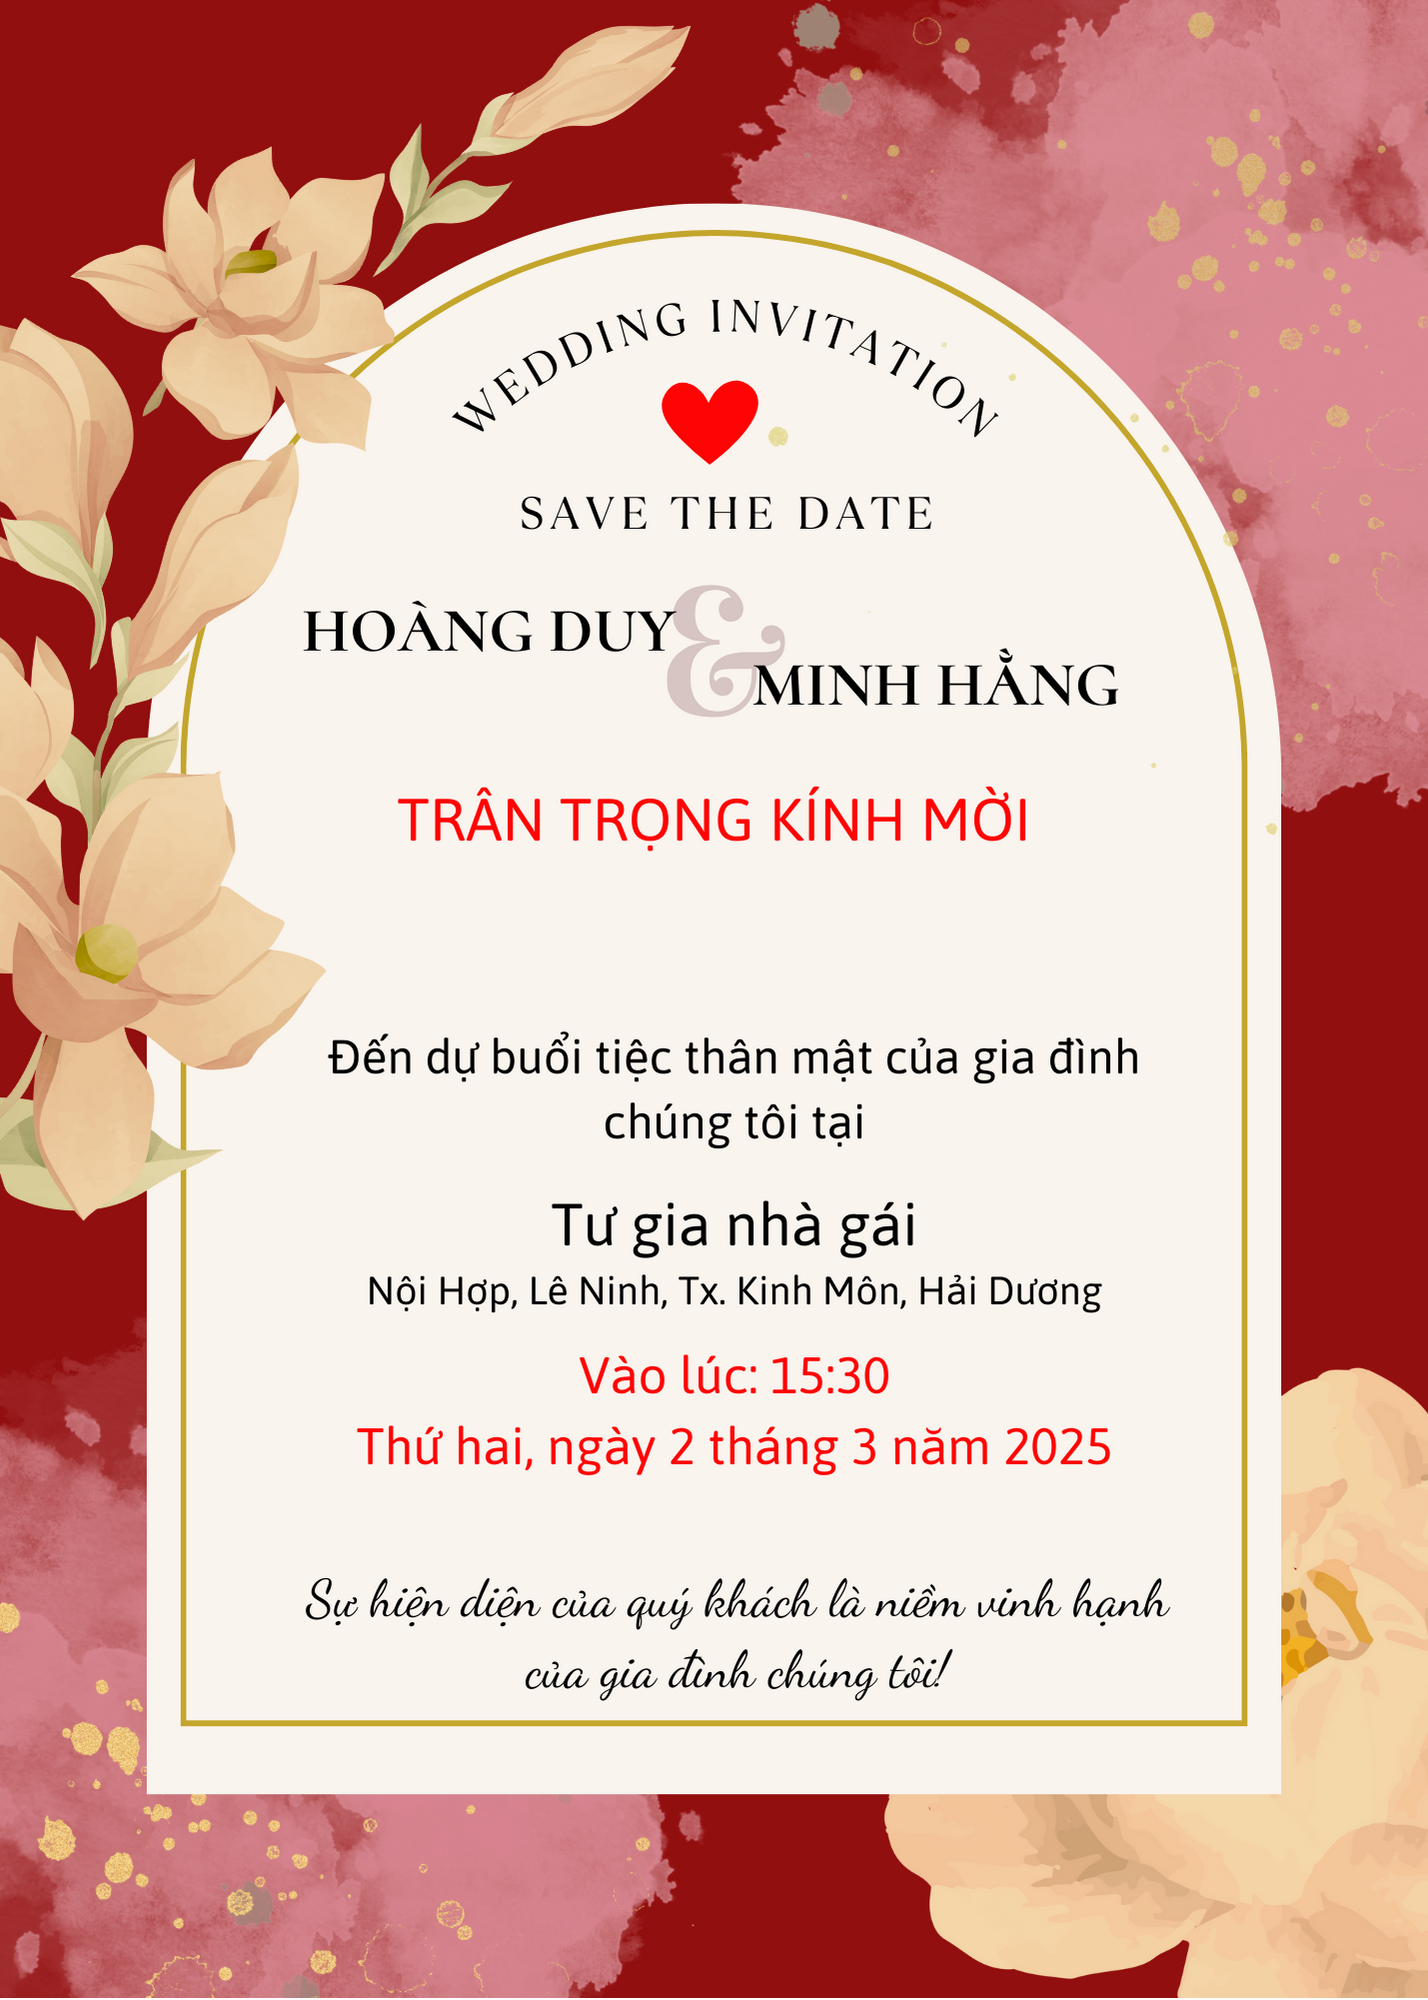
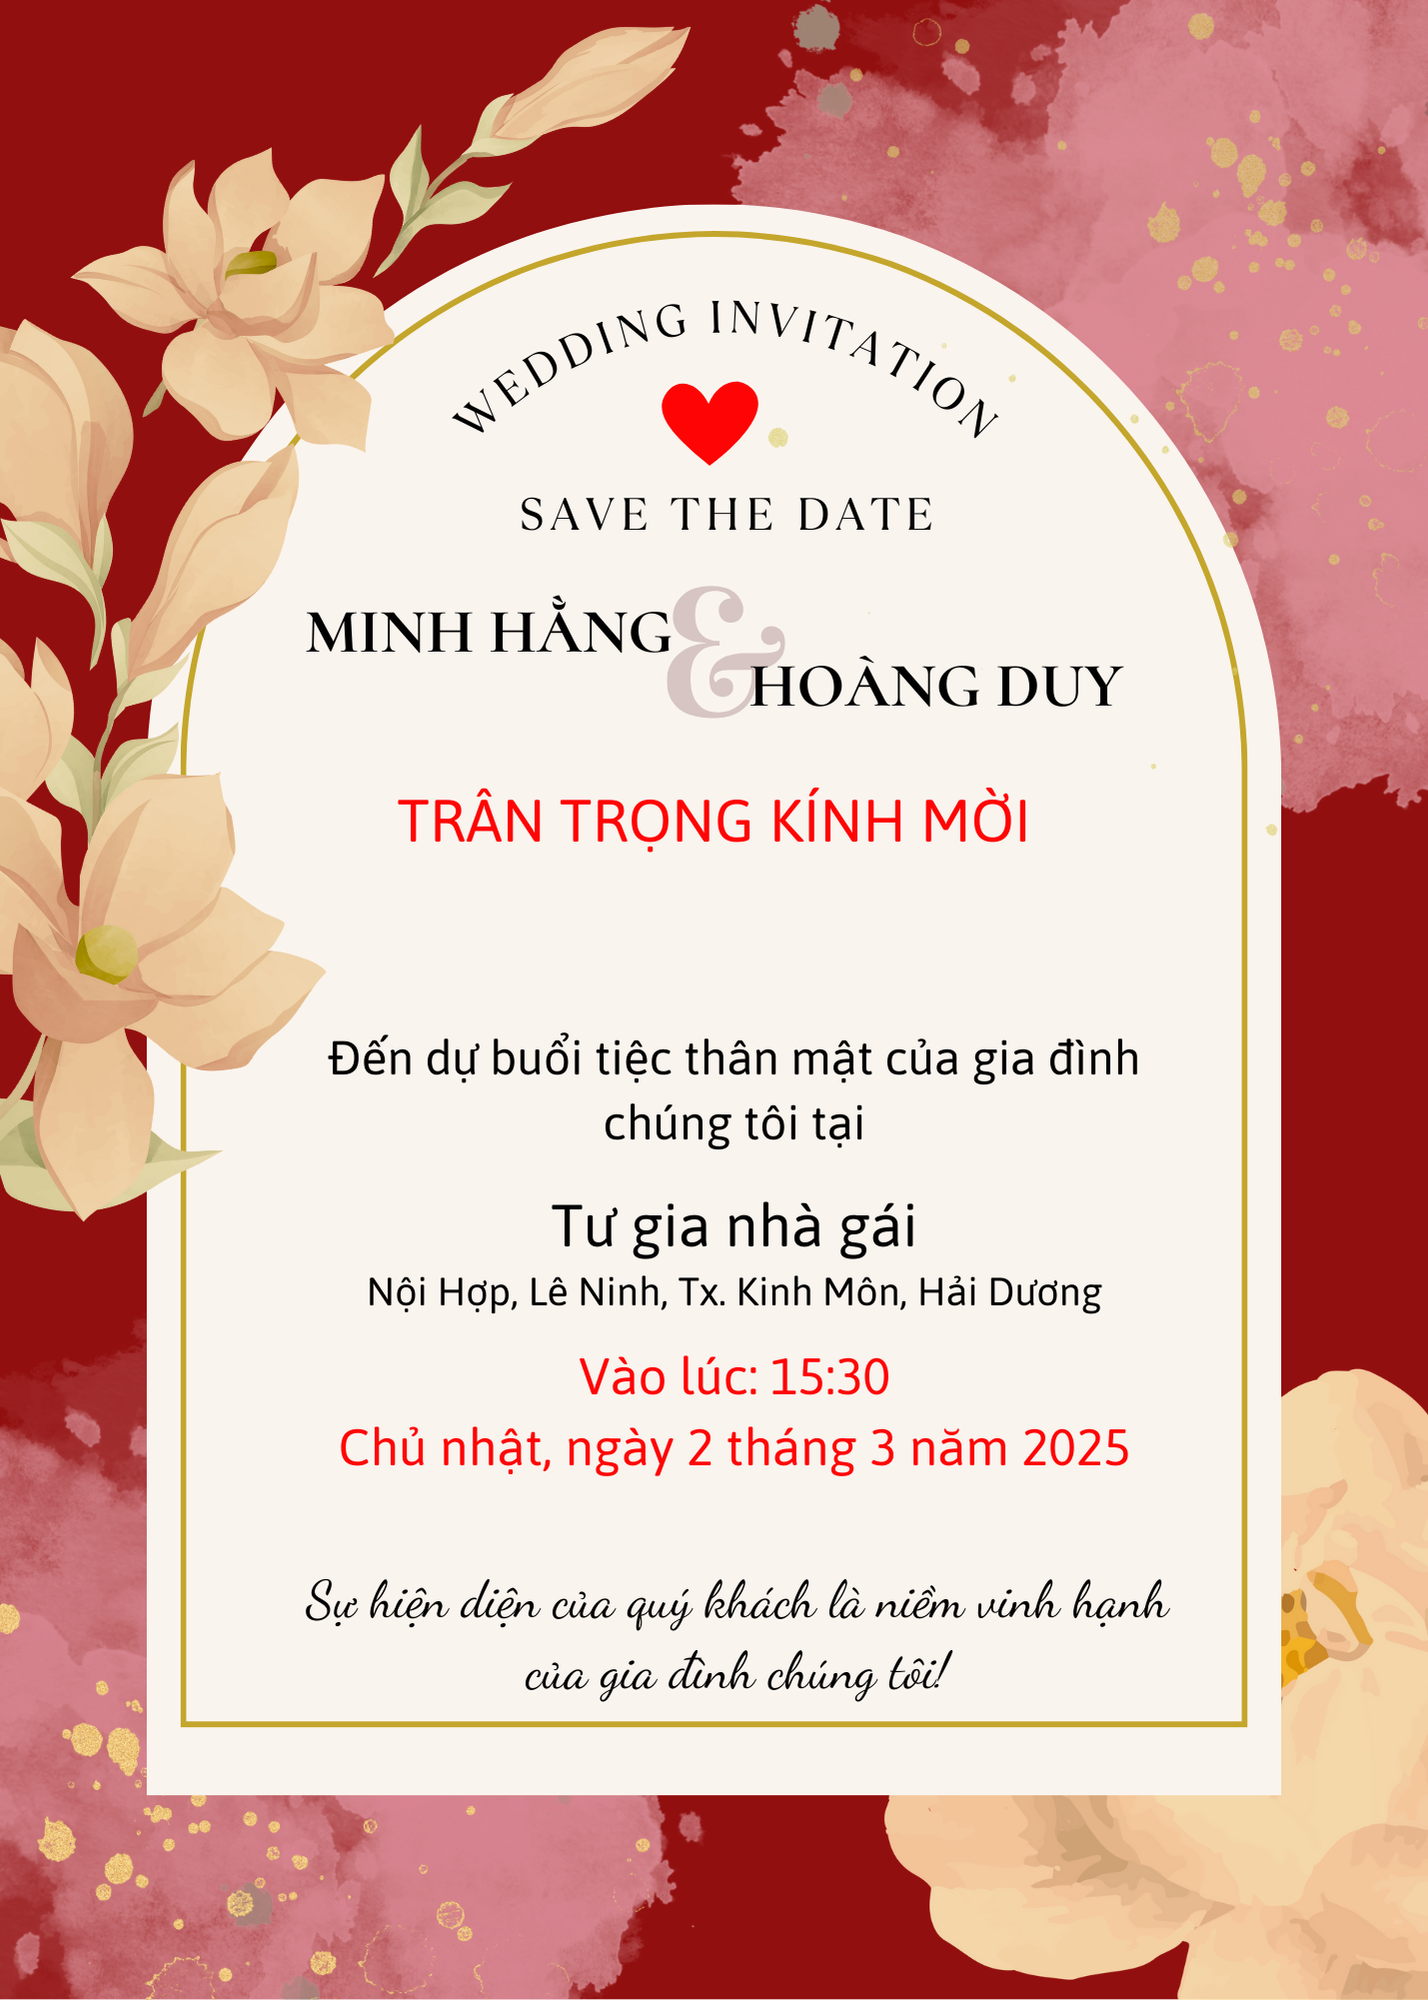
test

diff --git a/home.html b/home.html
@@ -568,6 +568,15 @@
 
 
         @media (max-width: 768px) {
+            .timeline-content h4{
+                font-size: 20px;
+            }
+            .timeline-content p{
+                font-size: 13px;
+            }
+            #gift-message{
+                margin-top: 50px;
+            }
             .info {
                 flex-direction: column;
                 /* Sắp xếp khối theo chiều dọc */
@@ -751,6 +760,9 @@
             height: 305px;
             overflow: auto;
         }
+        .event-card{
+            font-family:"SVN-Nusrat" ;
+        }
     </style>
     <link rel="stylesheet" href="https://unpkg.com/swiper/swiper-bundle.min.css">
 </head>
@@ -778,7 +790,7 @@
             <div class="tilte-nam  text-stroke-white">
                 <h5 class="title"><span>Chú rể</span></h5>
                 <h3 class="name"><span>Hoàng Duy</span></h3>
-                <span class="des-nam">Hôn nhân không phải là sự ràng buộc, mà là sự đồng hành. Không phải là chịu đựng,
+                <span class="des-nam">Đối với mình nhân không phải là sự ràng buộc, mà là sự đồng hành. Không phải là chịu đựng,
                     mà là thấu hiểu. Không phải là từ bỏ bản thân, mà là cùng nhau tốt lên.&nbsp;</span>
                 <div class="is-divider divider clearfix"
                     style="max-width:30000000000000px;height:1px;background-color:rgb(255, 255, 255);"></div>
@@ -809,22 +821,23 @@
     <div class="timeline-back">
         <section id="timeline" class="container">
             <h1 class="text-center section-title" style="color:#dee2e6; font-size:40px">Chuyện Tình Yêu</h1>
+            <h5 class="text-center" style="color: #dee2e6;">Tình yêu không làm cho thế giới quay tròn, nhưng tình yêu làm cho hành trình ấy trở nên đáng giá. Hôm nay, chúng mình muốn chia sẻ niềm hạnh phúc này với những người thân yêu nhất – những người đã luôn ủng hộ và yêu thương chúng mình trên chặng đường vừa qua.</h5>
             <div class="timeline">
                 <div class="row" style="margin-bottom: 40px;">
                     <div class="col-6  image-container" data-aos="flip-right">
                         <img src="./img/anhdoc.jpg" class="rounded-image" />
                     </div>
                     <div class="col-6  timeline-content timeline-left-content" data-aos="flip-left">
-                        <h4>First Meeting</h4>
-                        <p>We met for the first time and sparks flew!</p>
+                        <h4 style="font-family: 'SVN-Nusrat';">10-07-2020</h4>
+                        <p>Chúng mình gặp nhau vào một ngày bình thường, nhưng từ giây phút ấy, mọi thứ trở nên đặc biệt. Từ những tin nhắn đơn giản, những lần trò chuyện không dứt, cho đến những khoảnh khắc hiểu nhau chỉ qua ánh mắt… tình yêu lớn dần lúc nào không hay.</p>
                     </div>
 
                 </div>
                 <div class="row" style="margin-bottom: 40px;">
 
                     <div class="col-6 timeline-content timeline-right-content" data-aos="flip-right">
-                        <h4>First Meeting</h4>
-                        <p>We met for the first time and sparks flew!</p>
+                        <h4 style="font-family: 'SVN-Nusrat';">19-10-2020</h4>
+                        <p>Không có nến, không có hoa, không có một màn tỏ tình hoành tráng. Chỉ là một ngày bình thường như bao ngày khác, người ấy nhìn mình thật lâu và nói: 'Chúng ta hãy cùng nhau đi xa hơn nhé!' Và thế là, hai trái tim cùng nhịp đập, cùng nhau bước trên con đường yêu thương.</p>
                     </div>
                     <div class="col-6  image-container " data-aos="flip-left">
                         <img src="./img/anhthiep2.jpg" class="rounded-image" />
@@ -836,16 +849,16 @@
                         <img src="./img/anhthiep3.jpg" class="rounded-image" />
                     </div>
                     <div class="col-6 timeline-content timeline-left-content" data-aos="flip-left">
-                        <h4>First Meeting</h4>
-                        <p>We met for the first time and sparks flew!</p>
+                        <h4 style="font-family: 'SVN-Nusrat';">20-10-2024</h4>
+                        <p>Chúng mình đã đi cùng nhau qua biết bao chặng đường, và đến một ngày, anh nhẹ nhàng đưa ra chiếc nhẫn và nói: ‘Anh không hứa sẽ cho em một cuộc sống hoàn hảo, nhưng anh hứa sẽ luôn bên em, cùng em vượt qua tất cả. Em có đồng ý làm vợ anh nhé?’ Và khoảnh khắc ấy, mình biết rằng mình đã tìm thấy bến đỗ của đời mình.</p>
                     </div>
 
                 </div>
                 <div class="row" style="margin-bottom: 40px;">
 
                     <div class="col-6 timeline-content timeline-right-content" data-aos="flip-right">
-                        <h4>First Meeting</h4>
-                        <p>We met for the first time and sparks flew!</p>
+                        <h4 style="font-family: 'SVN-Nusrat';">07-02-2025</h4>
+                        <p>"Bao giờ sính lễ anh trao, trâu cau đem tới, em theo anh về "</p>
                     </div>
                     <div class="col-6  image-container" data-aos="flip-left">
                         <img src="./img/anhthiep4.jpg" class="rounded-image" />
@@ -861,23 +874,23 @@
         <p class="text-center mb-4">Vui lòng chọn sự kiện để xem lịch trình chi tiết hôn lễ.</p>
         <ul class="nav nav-tabs justify-content-center mb-4" id="eventTabs" role="tablist">
             <li class="nav-item" role="presentation">
-                <button class="nav-link active" id="nhatrai-tab" data-bs-toggle="tab" data-bs-target="#nhatrai"
+                <button class="nav-link " id="nhatrai-tab" data-bs-toggle="tab" data-bs-target="#nhatrai"
                     type="button" role="tab" aria-controls="nhatrai" aria-selected="true">Nhà Trai</button>
             </li>
             <li class="nav-item" role="presentation">
-                <button class="nav-link" id="nhagai-tab" data-bs-toggle="tab" data-bs-target="#nhagai" type="button"
+                <button class="nav-link active" id="nhagai-tab" data-bs-toggle="tab" data-bs-target="#nhagai" type="button"
                     role="tab" aria-controls="nhagai" aria-selected="false">Nhà Gái</button>
             </li>
         </ul>
 
         <div class="tab-content" id="eventTabsContent">
             <!-- Nhà Trai Tab -->
-            <div class="tab-pane fade show active" id="nhatrai" role="tabpanel" aria-labelledby="nhatrai-tab">
+            <div class="tab-pane fade " id="nhatrai" role="tabpanel" aria-labelledby="nhatrai-tab">
                 <div class="row justify-content-center">
                     <div class="col-md-5">
                         <div class="event-card">
                             <img src="./img/anhnen.jpg" alt="Nhà Trai">
-                            <h3>Tiệc Thân Mật Nhà Trai</h3>
+                            <h3>Tiệc Thân Mật</h3>
                             <p>Tại Tư Gia Nhà Trai<br>Bàng La, Đồ Sơn, Hải Phòng</p>
                             <p class="date">Chủ Nhật, 02 Tháng 03 Năm 2025<br>Vào Lúc 17:00</p>
                             <p>Nhằm Ngày 03 Tháng 02 Năm Ất Tỵ</p>
@@ -924,15 +937,15 @@
             </div>
 
             <!-- Nhà Gái Tab -->
-            <div class="tab-pane fade" id="nhagai" role="tabpanel" aria-labelledby="nhagai-tab">
+            <div class="tab-pane fade show active" id="nhagai" role="tabpanel" aria-labelledby="nhagai-tab">
                 <div class="row justify-content-center">
                     <div class="col-md-5">
                         <div class="event-card">
                             <img src="./img/anhnen.jpg" alt="Nhà Trai">
-                            <h3>Tiệc Thân Mật Nhà Gái</h3>
-                            <p>Tại Tư Gia Nhà Trai<br>Hoàn Kiếm, Hà Nội</p>
-                            <p class="date">Chủ Nhật, 08/09 Năm 2024<br>Vào Lúc 10:00</p>
-                            <p>Nhằm Ngày 19 Tháng 08 Năm Giáp Thìn</p>
+                            <h3>Tiệc Thân Mật</h3>
+                            <p>Tại Tư Gia Nhà Gái<br>Nội Hợp, Lê Ninh, Kinh Môn, Hải Dương</p>
+                            <p class="date">Chủ Nhật, 02/03 Năm 2025<br>Vào Lúc 15:30</p>
+                            <p>Nhằm Ngày 03 Tháng 02 Năm Ất Tỵ</p>
                             <div class="icons">
                                 <i class="bi bi-telephone-fill"></i>
                                 <i class="bi bi-chat-dots-fill"></i>
@@ -941,9 +954,7 @@
                                     <i class="bi bi-geo-alt-fill"></i>
                                 </a>
                                 <div>
-                                    <iframe class="map"
-                                        src="https://www.google.com/maps/embed?pb=!1m18!1m12!1m3!1d3153.8354345097515!2d144.95565101568054!3d-37.81731417975157!2m3!1f0!2f0!3f0!3m2!1i1024!2i768!4f13.1!3m3!1m2!1s0x6ad642af0f11fd81%3A0x5045675218ce7e33!2sGroom%27s%20House!5e0!3m2!1sen!2s!4v1600871758580!5m2!1sen!2s"
-                                        allowfullscreen="" loading="lazy"></iframe>
+                                    <iframe src="https://www.google.com/maps/embed?pb=!1m18!1m12!1m3!1d884.8648576924388!2d106.43050377109718!3d21.04447595999833!2m3!1f0!2f0!3f0!3m2!1i1024!2i768!4f13.1!3m3!1m2!1s0x313578a82d4140dd%3A0xb5912800bd7eadee!2zTuG7mWkgSOG7o3AsIEzhu4UgTmluaCwgS2luaCBNw7RuLCBI4bqjaSBExrDGoW5nLCBWaeG7h3QgTmFt!5e1!3m2!1svi!2s!4v1739456736010!5m2!1svi!2s"  allowfullscreen="" loading="lazy" referrerpolicy="no-referrer-when-downgrade"></iframe>
                                 </div>
                             </div>
                         </div>
@@ -952,9 +963,9 @@
                         <div class="event-card">
                             <img src="./img/anhnen.jpg" alt="Nhà Gái">
                             <h3>Tiệc Vu Quy</h3>
-                            <p>Tại White Palace<br>Ba Đình, Hà Nội</p>
-                            <p class="date">Chủ Nhật, 08/09 Năm 2024<br>Vào Lúc 10:00</p>
-                            <p>Nhằm Ngày 19 Tháng 08 Năm Giáp Thìn</p>
+                            <p>Tại Tư Gia Nhà Gái<br>Nội Hợp, Lê Ninh, Kinh Môn, Hải Dương</p>
+                            <p class="date">Thứ 2, 03/03 Năm 2025<br>Vào Lúc 05:00</p>
+                            <p>Nhằm Ngày 04 Tháng 02 Năm Ất Tỵ</p>
                             <div class="icons">
                                 <i class="bi bi-telephone-fill"></i>
                                 <i class="bi bi-chat-dots-fill"></i>
@@ -963,9 +974,7 @@
                                     <i class="bi bi-geo-alt-fill"></i>
                                 </a>
                                 <div>
-                                    <iframe class="map"
-                                        src="https://www.google.com/maps/embed?pb=!1m18!1m12!1m3!1d3153.8354345097515!2d144.95565101568054!3d-37.81731417975157!2m3!1f0!2f0!3f0!3m2!1i1024!2i768!4f13.1!3m3!1m2!1s0x6ad642af0f11fd81%3A0x5045675218ce7e33!2sGroom%27s%20House!5e0!3m2!1sen!2s!4v1600871758580!5m2!1sen!2s"
-                                        allowfullscreen="" loading="lazy"></iframe>
+                                    <iframe src="https://www.google.com/maps/embed?pb=!1m18!1m12!1m3!1d884.8648576924388!2d106.43050377109718!3d21.04447595999833!2m3!1f0!2f0!3f0!3m2!1i1024!2i768!4f13.1!3m3!1m2!1s0x313578a82d4140dd%3A0xb5912800bd7eadee!2zTuG7mWkgSOG7o3AsIEzhu4UgTmluaCwgS2luaCBNw7RuLCBI4bqjaSBExrDGoW5nLCBWaeG7h3QgTmFt!5e1!3m2!1svi!2s!4v1739456736010!5m2!1svi!2s"  allowfullscreen="" loading="lazy" referrerpolicy="no-referrer-when-downgrade"></iframe>
                                 </div>
                             </div>
                         </div>
@@ -1020,9 +1029,9 @@
         </div>
     </div>
 
-    <div class="container mt-5 justify-content-center formacpect">
+    <div class="container mt-5 justify-content-center formacpect" style="font-family: 'SVN-Nusrat';">
         <div class="rsvp-container col-md-6 col-12">
-            <h3 class="text-center fw-bold">Gửi lời chúc tới đôi uyên ương:</h3>
+            <h3 class="text-center fw-bold" style="font-size:20px">❤❤ Gửi Lời Chúc Tới Dâu Rể ❤❤</h3>
 
             <div id="rsvpForm">
                 <div class="mb-3">
@@ -1033,14 +1042,14 @@
                 <button onclick="sendMessage()" class="btn btn-rsvp">Gửi lời yêu thương</button>
             </div>
         </div>
-        <div class="col-md-6 col-12">
+        <div class="col-md-6 col-12 " id="gift-message">
             <h3>Lời chúc đã nhận:</h3>
             <div id="messagesList"></div>
         </div>
     </div>
 
 
-    <div class="container gift-section mt-5">
+    <div class="container gift-section mt-5" style="font-family: 'SVN-Nusrat';">
         <h2 class="gift-title">❤❤❤ Gửi Yêu Thương Dâu Rể ❤❤❤</h2>
         <p class="gift-subtitle">Cảm ơn bạn vì đã trở thành một phần trong ngày trọng đại của chúng tôi</p>
 
@@ -1048,21 +1057,21 @@
             <div class="col-md-4 col-12 p-0 bride">
                 <h3>Cô Dâu</h3>
                 <p class="account-info"><strong>Tên tài khoản:</strong> Đinh Thị Minh Hằng</p>
-                <p class="account-info"><strong>STK:</strong> 123456...</p>
-                <p class="account-info"><strong>MB Bank</strong></p>
+                <p class="account-info"><strong>STK:</strong> 796789689</p>
+                <p class="account-info"><strong>VIB</strong></p>
                 <div class="qr-code">
-                    <img src="./img/anhqrduy.jpg" alt="QR Code Cô Dâu">
+                    <img src="./img/anhqrhang.jpg" alt="QR Code Cô Dâu">
                 </div>
             </div>
 
             <div class="col-md-4 col-12 p-0 couple-photo">
-                <img src="./img/anhnen.jpg" alt="Cặp đôi">
+                <img src="./img/anhnha.jpg" alt="Cặp đôi">
             </div>
 
             <div class="col-md-4 col-12 p-0 groom">
                 <h3>Chú Rể</h3>
                 <p class="account-info"><strong>Tên tài khoản:</strong> Hoàng Văn Duy</p>
-                <p class="account-info"><strong>STK:</strong> 1234567890</p>
+                <p class="account-info"><strong>STK:</strong> 0793245728</p>
                 <p class="account-info"><strong>MB Bank</strong></p>
                 <div class="qr-code">
                     <img src="./img/anhqrduy.jpg" alt="QR Code Chú Rể">
@@ -1076,7 +1085,7 @@
     justify-content: center;
     align-items: center;">
         <div class="background-image-footer"></div>
-        <div class="container text-center">
+        <div class="container text-center" style="color: #A00826;">
             <h1 class="text-center mt-4 p-3" style="color: #A00826; font-size:40px">Hoàng Duy & Minh Hằng</h1>
             <h2 class="mb-4">Thank You !</h2>
             <p>Sự hiện diện của quý vị là niềm vui và vinh hạnh cho gia đình chúng tôi, Chân thành cám ơn !</p>
@@ -1273,6 +1282,13 @@
             });
        // Tải danh sách lời chúc khi mở trang
        loadMessages();
+        let activeTab = type == 2 ? "nhatrai-tab" : "nhagai-tab";
+    
+        // Kích hoạt tab bằng Bootstrap API
+        let tab = document.getElementById(activeTab);
+        console.log("test1234",tab);
+        tab.click();
+    
         });
 
         function playAudio() {

diff --git a/index.html b/index.html
@@ -75,7 +75,7 @@
         const urlParams = new URLSearchParams(window.location.search);
         const type = urlParams.get('type'); 
         const nameUrl = urlParams.get('name'); 
-        window.location.assign(`home.html?${name}=${encodeURIComponent(nameUrl)}&${type}=${encodeURIComponent(type)}`);
+        window.location.assign(`home.html?${name}=${encodeURIComponent(nameUrl)}&type=${encodeURIComponent(type)}`);
     }
     
 </script>
